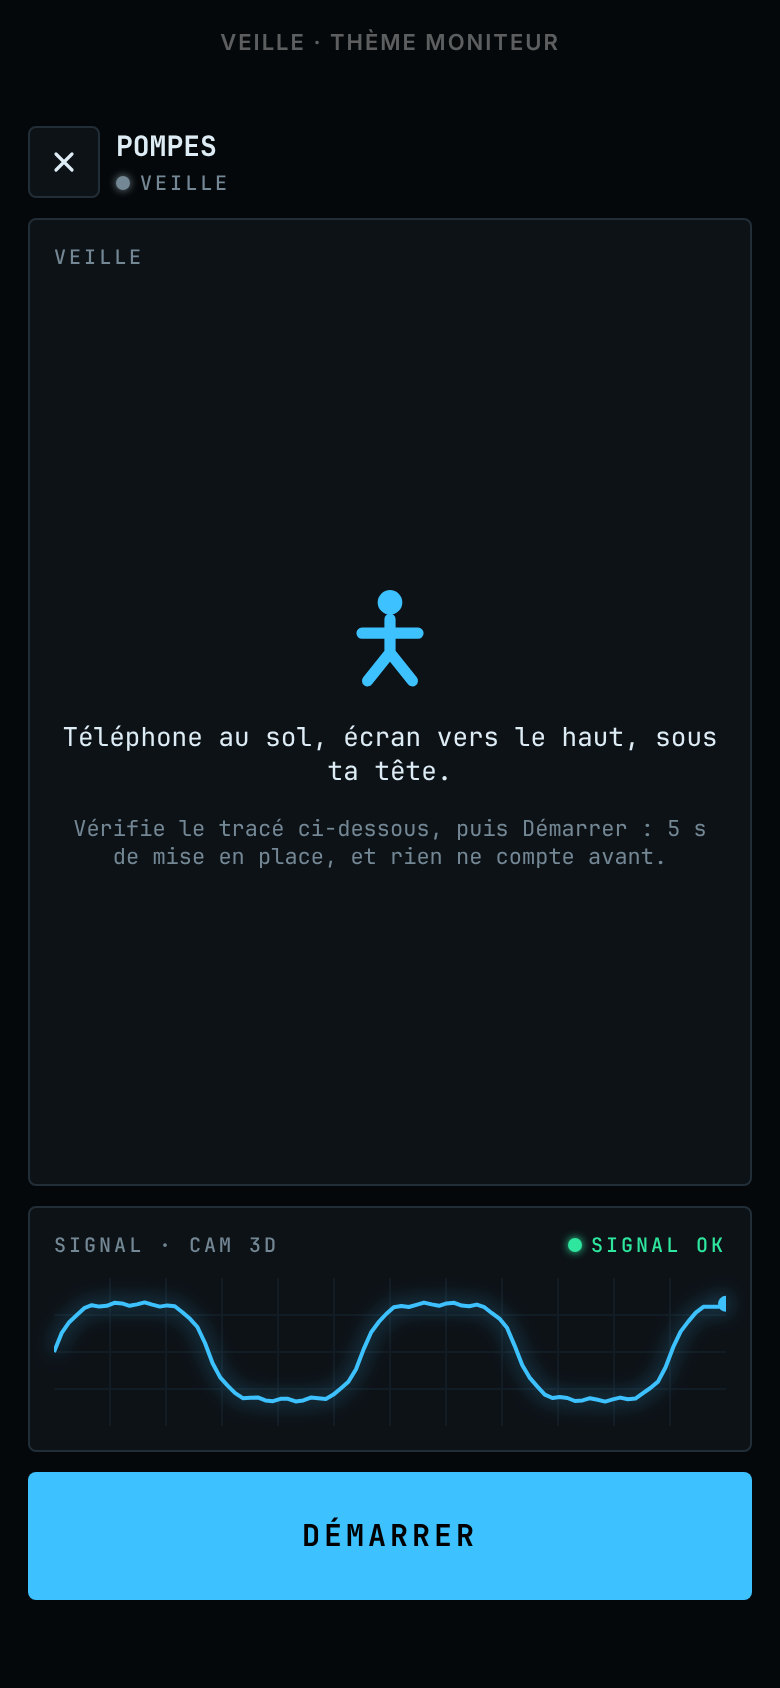
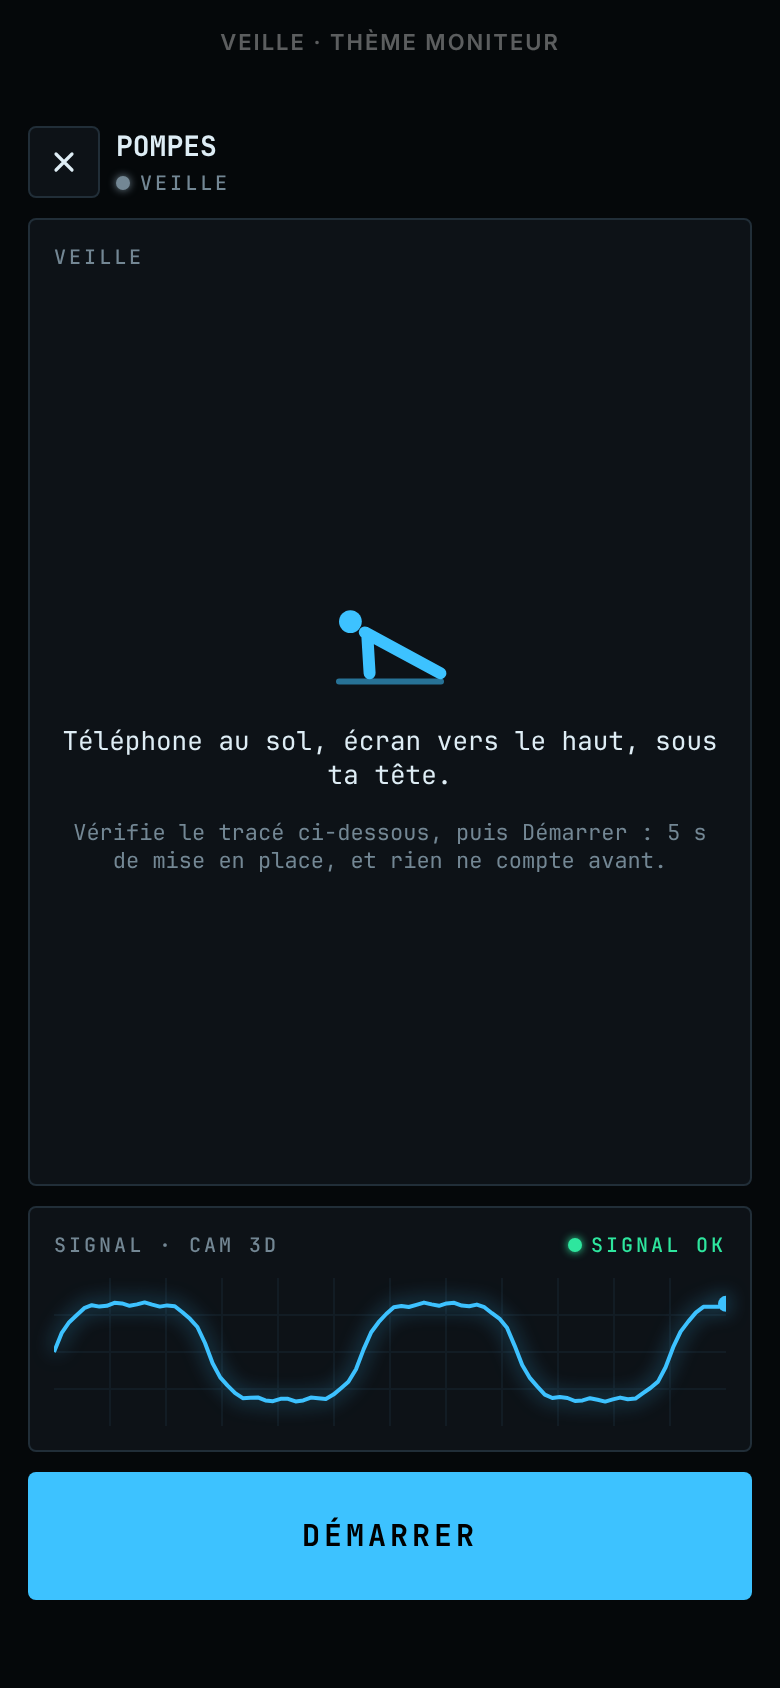
Pictogrammes dessinés pour les pompes et le développé épaules
SF Symbols n'a ni l'un ni l'autre : pompes en planche de profil sur le sol,
développé de face avec la barre bras tendus au-dessus de la tête.

Claude-Session: https://claude.ai/code/session_01FagVhaB5BD4mhMTzHfe9fj

diff --git a/Design/mockups/screens.html b/Design/mockups/screens.html
@@ -62,6 +62,8 @@ const ICONS = {
   dumbbell: '<path d="M3 10 H17" stroke-width="2"/><rect x="4" y="6" width="3" height="8" rx="1" stroke="none"/><rect x="13" y="6" width="3" height="8" rx="1" stroke="none"/>',
   sparkles: '<path d="M10 3 L11.5 8.5 L17 10 L11.5 11.5 L10 17 L8.5 11.5 L3 10 L8.5 8.5 Z" stroke="none"/>',
   gear: '<circle cx="10" cy="10" r="2.6" fill="none" stroke-width="1.8"/><path d="M10 2.5 V5 M10 15 V17.5 M2.5 10 H5 M15 10 H17.5 M4.7 4.7 L6.5 6.5 M13.5 13.5 L15.3 15.3 M4.7 15.3 L6.5 13.5 M13.5 6.5 L15.3 4.7" stroke-width="2" stroke-linecap="round"/><circle cx="10" cy="10" r="5.6" fill="none" stroke-width="1.8"/>',
+  pushup: '<circle cx="3.4" cy="7.6" r="1.9" stroke="none"/><path d="M5.8 9.4 L18.4 16.2 M6.2 9.6 L6.6 16.2" fill="none" stroke-width="2" stroke-linecap="round"/><path d="M1.5 17.6 H18.5" stroke-width="1" stroke-linecap="round" opacity=".55"/>',
+  press: '<circle cx="10" cy="7.2" r="1.9" stroke="none"/><path d="M2.5 2.6 H17.5" stroke-width="1.6" stroke-linecap="round"/><rect x="2.6" y="0.8" width="2" height="3.6" rx=".6" stroke="none"/><rect x="15.4" y="0.8" width="2" height="3.6" rx=".6" stroke="none"/><path d="M6.2 2.8 L7.6 10 H12.4 L13.8 2.8 M10 10 V13.4 M10 13.4 L7.6 18.6 M10 13.4 L12.4 18.6" fill="none" stroke-width="2" stroke-linecap="round" stroke-linejoin="round"/>',
   star: '<path d="M10 2.5 L12.2 7.4 L17.5 7.9 L13.5 11.4 L14.7 16.6 L10 13.9 L5.3 16.6 L6.5 11.4 L2.5 7.9 L7.8 7.4 Z" stroke="none"/>',
 };
 function icon(name, color, size = 20) {
@@ -102,7 +104,7 @@ function render(t, screen) {
     const rows = EXERCISES.map(([name, place, tag], i) => `
       <div class="row" style="padding:11px 0;gap:12px;${i < EXERCISES.length - 1 ? `border-bottom:1px solid ${c.line}` : ""}">
         <span style="font-size:12px;font-weight:600;color:${c.dim}">${String(i + 1).padStart(2, "0")}</span>
-        <span style="width:28px;display:flex;justify-content:center">${icon(i === 3 ? "dumbbell" : i === 5 ? "sparkles" : "figure", c.primary, 22)}</span>
+        <span style="width:28px;display:flex;justify-content:center">${icon(["pushup", "figure", "figure", "dumbbell", "press", "sparkles"][i], c.primary, 22)}</span>
         <div style="flex:1;min-width:0">
           <div style="font-size:15px;font-weight:700;text-transform:uppercase">${name}</div>
           <div style="font-size:10px;color:${c.dim};margin-top:3px;line-height:1.3">${place}</div>
@@ -186,7 +188,7 @@ function render(t, screen) {
   function main() {
     if (s.phase === "ready") {
       return panel("Veille", "", `<div class="center grow" style="gap:14px;height:100%">
-        ${icon("figure", c.primary, 56)}
+        ${icon("pushup", c.primary, 60)}
         <div style="font-size:13px">Téléphone au sol, écran vers le haut, sous ta tête.</div>
         <div style="font-size:11px;color:${c.dim}">Vérifie le tracé ci-dessous, puis Démarrer : 5 s de mise en place, et rien ne compte avant.</div></div>`, "grow");
     }

diff --git a/RepCounter/ExerciseIcon.swift b/RepCounter/ExerciseIcon.swift
@@ -1,0 +1,56 @@
+import SwiftUI
+
+/// Pictogramme d'un exercice. SF Symbols n'a ni pompes ni développé au-dessus de la tête :
+/// ces deux-là sont dessinés (repère 20 × 20, mêmes tracés que Design/mockups/screens.html).
+struct ExerciseIcon: View {
+    let exercise: Exercise
+    var size: CGFloat = 22
+
+    var body: some View {
+        switch exercise {
+        case .pushups, .press:
+            Canvas { context, canvas in
+                let scale = min(canvas.width, canvas.height) / 20
+                context.scaleBy(x: scale, y: scale)
+                if exercise == .pushups { Self.drawPushup(context) } else { Self.drawPress(context) }
+            }
+            .frame(width: size, height: size)
+        default:
+            Image(systemName: exercise.symbol)
+                .font(.system(size: size * 0.9, weight: .semibold))
+                .frame(width: size, height: size)
+        }
+    }
+
+    private static let limb = StrokeStyle(lineWidth: 2, lineCap: .round, lineJoin: .round)
+
+    /// De profil, en planche : tête, corps tendu des épaules aux pieds, bras tendu, sol.
+    private static func drawPushup(_ context: GraphicsContext) {
+        var context = context
+        context.fill(Path(ellipseIn: CGRect(x: 1.5, y: 5.7, width: 3.8, height: 3.8)), with: .foreground)
+        var body = Path()
+        body.move(to: CGPoint(x: 5.8, y: 9.4)); body.addLine(to: CGPoint(x: 18.4, y: 16.2))
+        body.move(to: CGPoint(x: 6.2, y: 9.6)); body.addLine(to: CGPoint(x: 6.6, y: 16.2))
+        context.stroke(body, with: .foreground, style: limb)
+        var floor = Path()
+        floor.move(to: CGPoint(x: 1.5, y: 17.6)); floor.addLine(to: CGPoint(x: 18.5, y: 17.6))
+        context.opacity = 0.55
+        context.stroke(floor, with: .foreground, style: StrokeStyle(lineWidth: 1, lineCap: .round))
+    }
+
+    /// De face, barre tenue bras tendus au-dessus de la tête.
+    private static func drawPress(_ context: GraphicsContext) {
+        context.fill(Path(ellipseIn: CGRect(x: 8.1, y: 5.3, width: 3.8, height: 3.8)), with: .foreground)
+        var bar = Path()
+        bar.move(to: CGPoint(x: 2.5, y: 2.6)); bar.addLine(to: CGPoint(x: 17.5, y: 2.6))
+        context.stroke(bar, with: .foreground, style: StrokeStyle(lineWidth: 1.6, lineCap: .round))
+        for x in [2.6, 15.4] {
+            context.fill(Path(roundedRect: CGRect(x: x, y: 0.8, width: 2, height: 3.6), cornerRadius: 0.6), with: .foreground)
+        }
+        var figure = Path()
+        figure.addLines([CGPoint(x: 6.2, y: 2.8), CGPoint(x: 7.6, y: 10), CGPoint(x: 12.4, y: 10), CGPoint(x: 13.8, y: 2.8)])
+        figure.move(to: CGPoint(x: 10, y: 10)); figure.addLine(to: CGPoint(x: 10, y: 13.4))
+        figure.addLines([CGPoint(x: 7.6, y: 18.6), CGPoint(x: 10, y: 13.4), CGPoint(x: 12.4, y: 18.6)])
+        context.stroke(figure, with: .foreground, style: limb)
+    }
+}

diff --git a/RepCounter/Exercise.swift b/RepCounter/Exercise.swift
@@ -21,11 +21,11 @@ enum Exercise: String, CaseIterable, Identifiable {
     var symbol: String {
         switch self {
         case .auto: return "sparkles"
-        case .pushups: return "figure.cross.training"
+        case .pushups: return "figure.cross.training"   // non affiché : voir ExerciseIcon
         case .crunches: return "figure.core.training"
         case .squats: return "figure.strengthtraining.functional"
         case .curls: return "dumbbell.fill"
-        case .press: return "figure.strengthtraining.traditional"
+        case .press: return "figure.strengthtraining.traditional"   // non affiché : voir ExerciseIcon
         }
     }
 

diff --git a/RepCounter/WorkoutView.swift b/RepCounter/WorkoutView.swift
@@ -119,8 +119,7 @@ struct WorkoutView: View {
         case .ready:
             MonitorPanel("Veille") {
                 VStack(spacing: 14) {
-                    Image(systemName: model.exercise.symbol)
-                        .font(.system(size: 54, weight: .light))
+                    ExerciseIcon(exercise: model.exercise, size: 60)
                         .foregroundStyle(theme.primary)
                     Text(model.exercise.placement)
                         .font(theme.font(13))

diff --git a/RepCounter/HomeView.swift b/RepCounter/HomeView.swift
@@ -68,8 +68,7 @@ private struct ExerciseRow: View {
             Text(String(format: "%02d", index))
                 .font(theme.font(12, .semibold))
                 .foregroundStyle(theme.dim)
-            Image(systemName: exercise.symbol)
-                .font(.system(size: 20, weight: .semibold))
+            ExerciseIcon(exercise: exercise)
                 .foregroundStyle(theme.primary)
                 .frame(width: 28)
             VStack(alignment: .leading, spacing: 3) {
